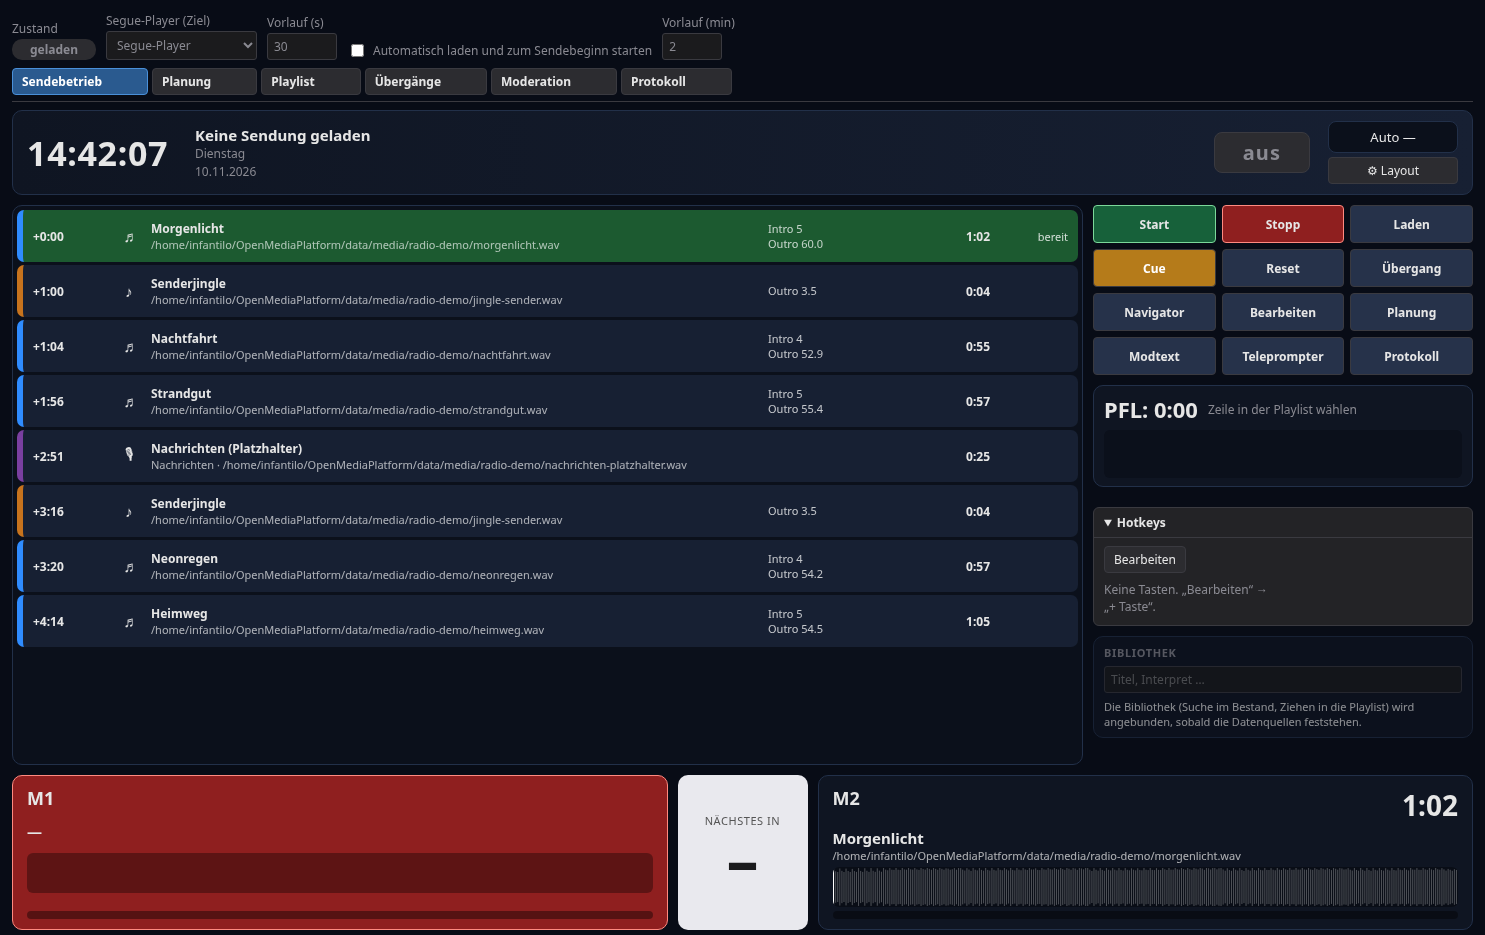
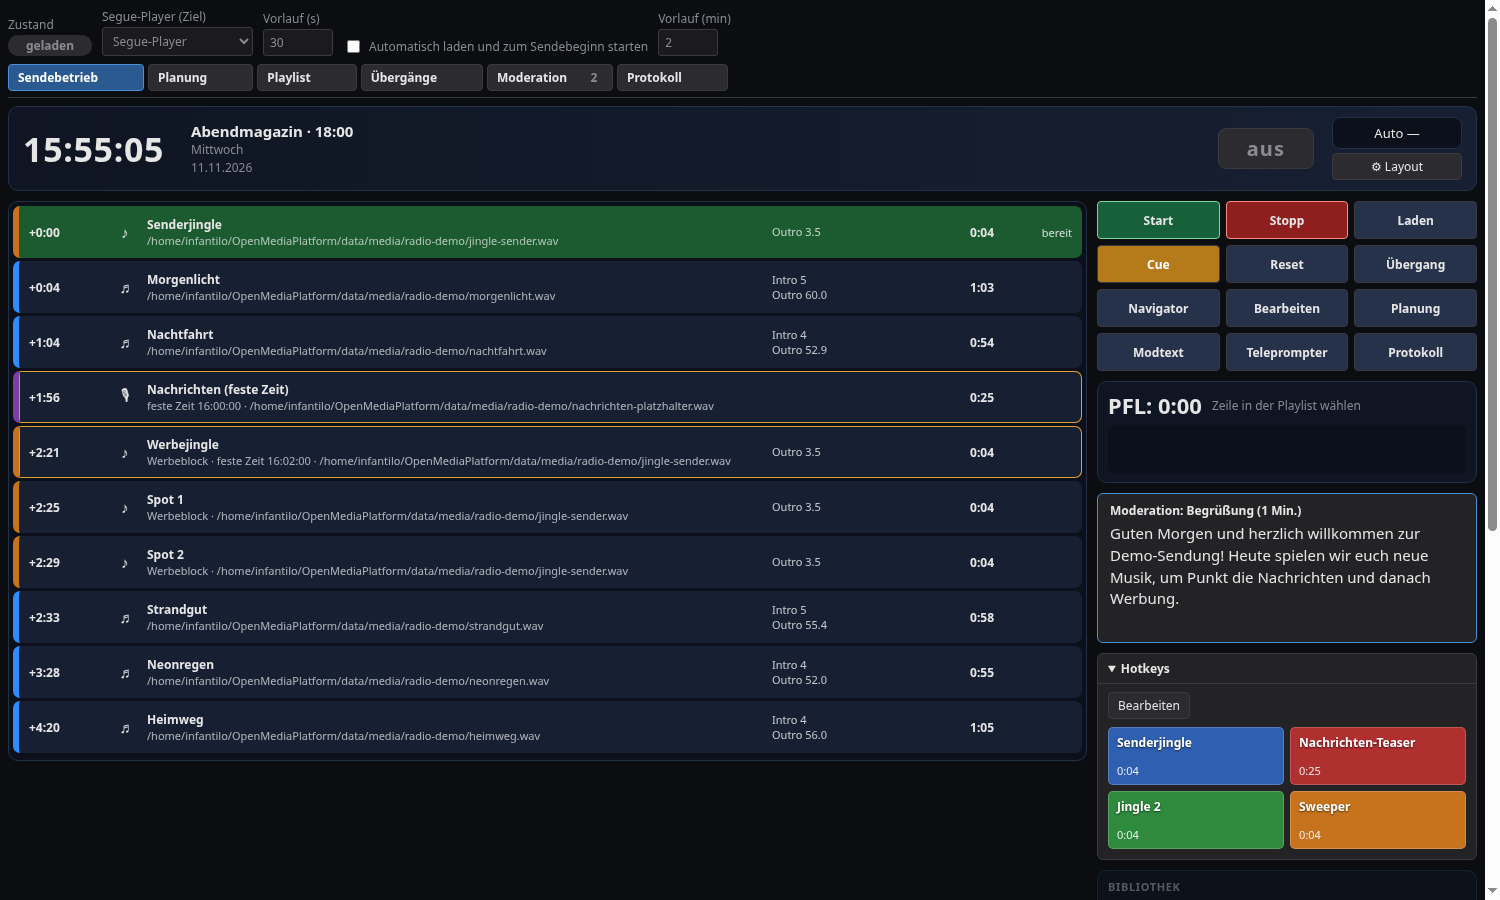
Radio-Automation: Screenshots (Planung, Playlist, Übergänge, Übergangs-Editor, Moderation, Sendebetrieb, Studio-Logik, GPIO) in README und Benutzerhandbuch; Skript tools/radio-screens

diff --git a/docs/BENUTZERHANDBUCH.md b/docs/BENUTZERHANDBUCH.md
@@ -1143,7 +1143,29 @@ Der Node **Gebärdensprach-Avatar** setzt Untertitel in Deutsche Gebärdensprach
 
 **Radio: Sendebetrieb (Radio-Automation).** Das Bedienfeld der Radio-Automation (Node *Radio-Automation*, Ziel ist der *Segue-Player*) zeigt im Reiter *Sendebetrieb* die Uhr, die geladene Sendung und die **Playlist**: je Zeile Startzeit, Art (Titel, Jingle, Gesprochenes), Dateiname, die Marken *Intro* und *Outro* (Segue-Punkt) und die Dauer; die nächste Zeile ist grün markiert („bereit“). Rechts stehen *Start*, *Stopp*, *Laden*, *Cue*, *Reset*, *Übergang*, die Hilfsfenster *Navigator*, *Bearbeiten*, *Planung*, *Modtext*, *Teleprompter* und *Protokoll* sowie der Vorhörbereich (PFL) und die frei belegbaren *Hotkeys*. Unten laufen die beiden Abspielkarten **M1** und **M2** (jeweils mit Wellenform und Restzeit) und in der Mitte der Zähler „Nächstes in …“. Die weiteren Reiter: *Planung* (Sendungen vorbereiten und importieren), *Playlist*, *Übergänge* (Übergangs-Editor mit Wellenformen und verschiebbaren Marken), *Moderation* (Moderationskarten und Notizen zur Sendung) und *Protokoll* (As-Run). Die Automation plant aus den Marken die Übergänge (Titel→Titel als Kreuzblende am Segue-Punkt, Jingle über dem Ausklang) und schickt die Stimmen mit Vorlauf (Standard 30 s) an den Segue-Player. Eine fertige Vorlage mit allen Radio-Nodes ist der Workflow *Radio-Moderationsplatz* (`docs/examples/workflow-radio-moderationsplatz.json`).
 
-![Radio-Automation, Reiter Sendebetrieb: Playlist mit Marken, Steuerknöpfe, Abspielkarten M1/M2](screenshots/radio-sendebetrieb.png)
+![Radio-Automation, Reiter Sendebetrieb: Playlist mit Marken, feste Zeiten, Werbeblock, Steuerknöpfe, Moderationskarte, Abspielkarten M1/M2](screenshots/radio-sendebetrieb.png)
+
+**Reiter Planung** — Wochenplan mit den Sendungen des Tages und das Formular der Sendung (Titel, Zeitfenster, Moderation, Freigeben, *Auf Sendung laden*, Versionen):
+
+![Radio-Automation, Reiter Planung: Wochenplan und Sendung](screenshots/radio-planung.png)
+
+**Reiter Playlist** — der Log als Tabelle: Intro, Segue-Punkt, Start in der Datei, Pegel, harte Uhrzeitmarken, Werbeblock mit Soll-Länge und Prüfung „passt“. *Log laden* übergibt den Stand an den Segue-Player:
+
+![Radio-Automation, Reiter Playlist](screenshots/radio-playlist.png)
+
+**Reiter Übergänge und Übergangs-Editor** — jedes Titelpaar mit seiner Blende; *Bearbeiten* (oder Doppelklick auf die Zeit in der Playlist) öffnet den Editor mit den Wellenformen beider Titel, verschiebbaren Marken (Segue-Punkt, Einsatz, Ende der Blende, Intro-Ende, Beginn), Kurven, Vorhören des Übergangs und der Sendequalitäts-Prüfung:
+
+![Radio-Automation, Reiter Übergänge](screenshots/radio-uebergaenge.png)
+![Übergangs-Editor mit Wellenformen und Marken](screenshots/radio-segue-editor.png)
+
+**Reiter Moderation** — Karten mit Lesezeit-Schätzung, an einen Titel oder den Sendungsbeginn gehängt, und Notizen zur Sendung:
+
+![Radio-Automation, Reiter Moderation](screenshots/radio-moderation.png)
+
+**Studio-Logik und Kontakte.** Die *Studio-Logik* (Mikrofongruppen mit Sendelampe und Cough-Haltetaste, Studio-Übergabe, Regeln für Rotlicht und Lautsprecher-Stummschaltung) und der *GPIO*-Node (Ein- und Ausgänge, Simulator) haben eigene Bedienfelder:
+
+![Studio-Logik: Mikrofongruppen, Studio-Übergabe, Regeln](screenshots/radio-studio-logik.png)
+![GPIO: Eingänge und Ausgänge mit Namen und Fail-Safe](screenshots/radio-gpio.png)
 
 **Radio: Lautheitsprüfung (Eingang).** Im Eingang (Datei-Prüfung) gibt es zwei mitgelieferte Profile für Tondateien: *Radio Produktion (EBU R 128)* prüft −23,0 LUFS mit ±0,2 LU Toleranz und True Peak bis −0,7 dBTP; *Radio Kurzform (EBU R 128 s1)* gilt für Spots und Jingles und verlangt zusätzlich, dass die höchste Short-term-Lautheit −18,0 LUFS nicht überschreitet. Nach jeder Prüfung steht die gemessene Lautheit am Asset (Integrated, Lautheitsumfang, True Peak, höchster Short-term-Wert); sie dient später der automatischen Pegelanpassung beim Abspielen. Dateien unter 3 Sekunden haben keinen Short-term-Wert.
 

diff --git a/README.md b/README.md
@@ -207,6 +207,22 @@ counters, next to what the writer actually declares about the flow._
 </tr>
 </table>
 
+<table>
+<tr>
+<td width="33%"><img src="docs/screenshots/radio-planung.png" width="260"><br><sub><b>Radio planning:</b> week plan with the shows of the day and the show form (title, time slot, presenters, release, load on air, versions)</sub></td>
+<td width="33%"><img src="docs/screenshots/radio-playlist.png" width="260"><br><sub><b>Radio playlist:</b> the log as a table — intro, segue point, start in file, gain, fixed clock marks, ad block with target length and "fits" check, drag and drop</sub></td>
+<td width="33%"><img src="docs/screenshots/radio-segue-editor.png" width="260"><br><sub><b>Transition editor:</b> waveforms of both items, draggable segue / fade / intro marks, fade curves, audition of the transition and a render check with the segue player's own mixer</sub></td>
+</tr>
+</table>
+
+<table>
+<tr>
+<td width="33%"><img src="docs/screenshots/radio-uebergaenge.png" width="260"><br><sub>Transitions tab: every pair of the playlist with its blend; "Edit" opens the transition editor (also by double-clicking the time cell)</sub></td>
+<td width="33%"><img src="docs/screenshots/radio-moderation.png" width="260"><br><sub>Presenter tab: cards with a reading-time estimate, attached to a playlist item or the start of the show, plus show notes; the next card appears on the on-air screen</sub></td>
+<td width="33%"><img src="docs/screenshots/radio-studio-logik.png" width="260"><br><sub><b>Studio logic:</b> microphone groups with on-air lamp and cough key, studio handover at an exact time, rules editor (on-air light, speaker muting)</sub></td>
+</tr>
+</table>
+
 ### Support and diagnostics
 
 Built so that a non-specialist can tell what is wrong and an expert gets
